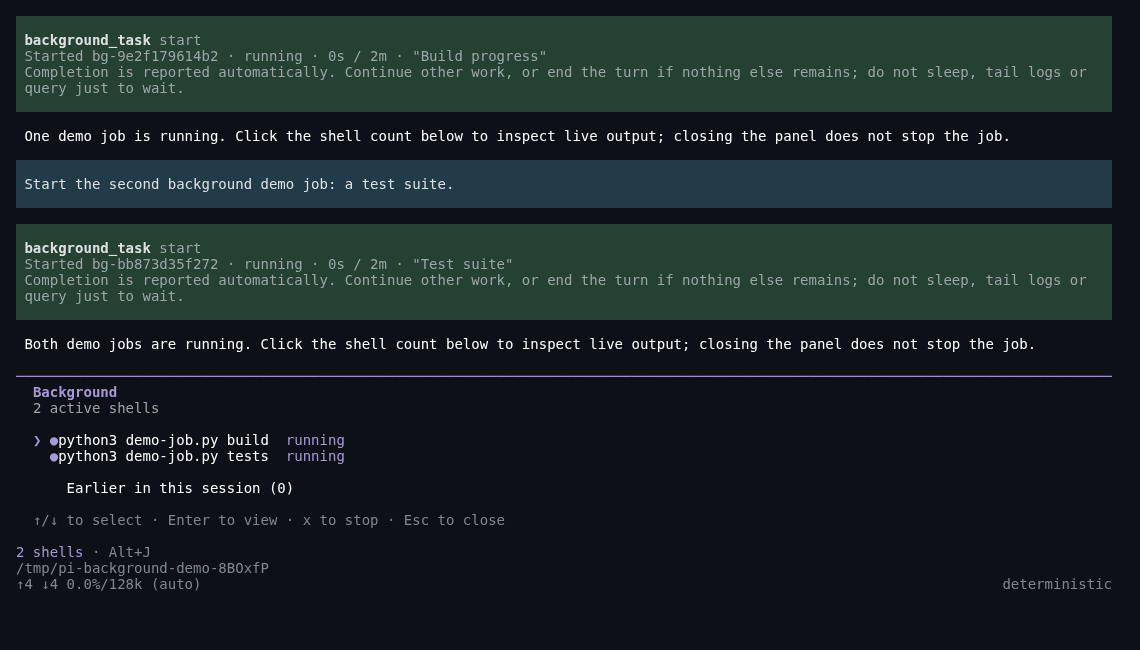
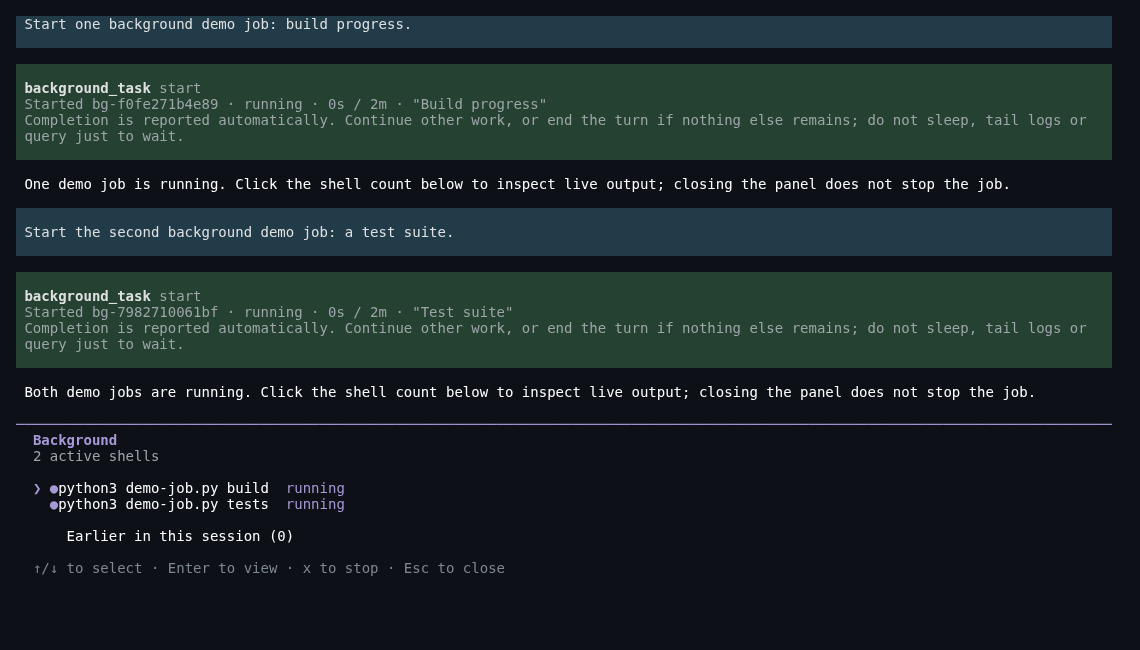
fix(background-tasks): move shell controls into the bottom footer

diff --git a/packages/background-tasks/extensions/background-tasks.ts b/packages/background-tasks/extensions/background-tasks.ts
@@ -5,7 +5,7 @@ import { stripVTControlCharacters } from "node:util";
 import { Type } from "typebox";
 import { BackgroundTasks, errorText, summary, systemClock, type Clock, type TaskSnapshot } from "../src/background-tasks.ts";
 import { BackgroundPanel } from "../src/panel.ts";
-import { BackgroundWidget, FINISHED_VISIBLE_MS, WIDGET_KEY, duration, visibleTasks } from "../src/widget.ts";
+import { BackgroundFooter, findNativeFooter, FINISHED_VISIBLE_MS, WIDGET_KEY, duration, visibleTasks } from "../src/widget.ts";
 
 const actions = ["start", "list", "output", "cancel"] as const;
 const startNotice = "Completion is reported automatically. Continue other work, or end the turn if nothing else remains; do not sleep, tail logs or query just to wait.";
@@ -72,7 +72,7 @@ export default function (pi: ExtensionAPI, dependencies: { operations?: BashOper
 	let completedNormally = true;
 	let interrupted = false;
 	const pending = new Map<string, TaskSnapshot>();
-	let mounted: { widget: BackgroundWidget; tui: { requestRender(): void } } | undefined;
+	let mounted: { footer: BackgroundFooter; tui: { requestRender(): void } } | undefined;
 	let panel: { close(): void } | undefined;
 
 	const clearNotificationTimer = () => {
@@ -158,6 +158,7 @@ export default function (pi: ExtensionAPI, dependencies: { operations?: BashOper
 		if (!current?.hasUI || current.mode !== "tui" || !tasks || panel) return;
 		const interaction = { close: () => {} };
 		panel = interaction;
+		mounted?.tui.requestRender();
 		try {
 			await current.ui.custom<void>((tui, theme, keybindings, done) => {
 				const component = new BackgroundPanel(tasks, clock, theme, keybindings, () => tui.requestRender(), () => done());
@@ -168,6 +169,7 @@ export default function (pi: ExtensionAPI, dependencies: { operations?: BashOper
 			if (context === current) current.ui.notify(`Cannot show shells: ${errorText(error)}`, "error");
 		} finally {
 			if (panel === interaction) panel = undefined;
+			mounted?.tui.requestRender();
 		}
 	};
 	pi.registerShortcut("alt+j", { description: "Show background shells", handler: openPanel });
@@ -183,24 +185,11 @@ export default function (pi: ExtensionAPI, dependencies: { operations?: BashOper
 			return;
 		}
 		const visible = visibleTasks(list.tasks, clock.now());
+		mounted?.footer.invalidate();
+		mounted?.tui.requestRender();
 		if (visible.length === 0) {
 			clearTimer();
-			if (mounted) {
-				context.ui.setWidget(WIDGET_KEY, undefined);
-				mounted.tui.requestRender();
-				mounted = undefined;
-			}
 			return;
-		}
-		if (mounted) {
-			mounted.widget.invalidate();
-			mounted.tui.requestRender();
-		} else {
-			context.ui.setWidget(WIDGET_KEY, (tui, theme) => {
-				const widget = new BackgroundWidget(() => manager?.list().tasks ?? [], clock, theme, () => { void openPanel(); });
-				mounted = { widget, tui };
-				return widget;
-			}, { placement: "belowEditor" });
 		}
 		if (timer === undefined) {
 			const delay = Math.min(1000, ...visible.filter((task) => task.ended_at !== undefined).map((task) => task.ended_at! + FINISHED_VISIBLE_MS - clock.now()));
@@ -223,7 +212,7 @@ export default function (pi: ExtensionAPI, dependencies: { operations?: BashOper
 		try {
 			if (previousContext?.hasUI) {
 				previousContext.ui.setStatus(WIDGET_KEY, undefined);
-				if (previousContext.mode === "tui") previousContext.ui.setWidget(WIDGET_KEY, undefined);
+				if (previousContext.mode === "tui" && mounted) previousContext.ui.setFooter(undefined);
 			}
 			mounted = undefined;
 		} finally {
@@ -243,6 +232,25 @@ export default function (pi: ExtensionAPI, dependencies: { operations?: BashOper
 				scheduleNotification();
 			},
 		});
+		if (ctx.hasUI && ctx.mode === "tui") {
+			// setFooter clears its container before invoking the factory. Capture the
+			// native component first, using a temporary, zero-line widget factory.
+			try {
+				ctx.ui.setWidget(WIDGET_KEY, (tui) => {
+					const native = findNativeFooter(tui.children);
+					if (!native) throw new Error("Background Tasks requires Pi's built-in footer; another extension has replaced it.");
+					ctx.ui.setFooter((footerTui, theme, data) => {
+						const footer = new BackgroundFooter(native, () => manager?.list().tasks ?? [], clock, theme,
+							() => data.getExtensionStatuses().size > 0, () => panel !== undefined, () => { void openPanel(); });
+						mounted = { footer, tui: footerTui };
+						return footer;
+					});
+					return { render: () => [], invalidate() {} };
+				});
+			} finally {
+				ctx.ui.setWidget(WIDGET_KEY, undefined);
+			}
+		}
 	});
 	pi.on("session_shutdown", dispose);
 

diff --git a/packages/background-tasks/src/widget.ts b/packages/background-tasks/src/widget.ts
@@ -1,5 +1,5 @@
-import type { Theme } from "@earendil-works/pi-coding-agent";
-import { truncateToWidth, visibleWidth, type TuiMouseEvent, type TuiMouseEventResult } from "@earendil-works/pi-tui";
+import { FooterComponent, type Theme } from "@earendil-works/pi-coding-agent";
+import { truncateToWidth, visibleWidth, type Component, type TuiMouseEvent, type TuiMouseEventResult } from "@earendil-works/pi-tui";
 import type { Clock, TaskSnapshot } from "./background-tasks.ts";
 
 export const WIDGET_KEY = "background-tasks";
@@ -16,35 +16,61 @@ export function duration(seconds: number): string {
 	return `${value}s`;
 }
 
-/** Compact, clickable shell count below the editor. The native footer stays intact. */
-export class BackgroundWidget {
-	private hitWidth = 0;
+/** Locate the exported native component through the public TUI container tree. */
+export function findNativeFooter(children: Component[]): FooterComponent | undefined {
+	for (const child of children) {
+		if (child instanceof FooterComponent) return child;
+		if ("children" in child && Array.isArray(child.children)) {
+			const footer = findNativeFooter(child.children);
+			if (footer) return footer;
+		}
+	}
+}
+
+/** Keep native usage/model rendering; add a clickable count to its final status row. */
+export class BackgroundFooter {
+	private hit?: { x: number; y: number; width: number };
+	private readonly native: Component;
 	private readonly getTasks: () => TaskSnapshot[];
 	private readonly clock: Clock;
 	private readonly theme: Theme;
+	private readonly hasStatuses: () => boolean;
+	private readonly panelOpen: () => boolean;
 	private readonly onSelect: () => void;
-	constructor(getTasks: () => TaskSnapshot[], clock: Clock, theme: Theme, onSelect: () => void) {
+	constructor(native: Component, getTasks: () => TaskSnapshot[], clock: Clock, theme: Theme, hasStatuses: () => boolean, panelOpen: () => boolean, onSelect: () => void) {
+		this.native = native;
 		this.getTasks = getTasks;
 		this.clock = clock;
 		this.theme = theme;
+		this.hasStatuses = hasStatuses;
+		this.panelOpen = panelOpen;
 		this.onSelect = onSelect;
 	}
 
 	handleMouse(event: TuiMouseEvent): TuiMouseEventResult | undefined {
-		if (event.type !== "click" || event.button !== "left" || event.y !== 0 || event.x < 0 || event.x >= this.hitWidth) return;
+		const hit = this.hit;
+		if (this.panelOpen() || !hit || event.type !== "click" || event.button !== "left" || event.y !== hit.y || event.x < hit.x || event.x >= hit.x + hit.width) return;
 		this.onSelect();
 		return { handled: true, render: false };
 	}
 
 	render(width: number): string[] {
+		this.hit = undefined;
+		if (this.panelOpen()) return [];
+		const lines = this.native.render(width);
 		const tasks = visibleTasks(this.getTasks(), this.clock.now());
+		if (!tasks.length) return lines;
 		const active = tasks.filter((task) => task.status === "running").length;
 		const ended = tasks.length - active;
 		const label = `${active} ${active === 1 ? "shell" : "shells"}${ended ? ` · ${ended} done` : ""}`;
-		const text = truncateToWidth(this.theme.fg("accent", label), width);
-		this.hitWidth = tasks.length ? visibleWidth(text) : 0;
-		return [truncateToWidth(`${text}${this.theme.fg("dim", " · Alt+J")}`, width)];
+		const hint = width >= visibleWidth(label) + 8 ? this.theme.fg("dim", " · Alt+J") : "";
+		const text = truncateToWidth(this.theme.fg("accent", label) + hint, width, "");
+		const status = this.hasStatuses() ? lines.pop()! : "";
+		const available = width - visibleWidth(text) - 3;
+		const prefix = status && available > 0 ? truncateToWidth(status, available, "…") + " · " : "";
+		this.hit = { x: visibleWidth(prefix), y: lines.length, width: Math.min(visibleWidth(label), visibleWidth(text)) };
+		return [...lines, prefix + text];
 	}
 
-	invalidate(): void { this.hitWidth = 0; }
+	invalidate(): void { this.hit = undefined; this.native.invalidate(); }
 }

diff --git a/packages/background-tasks/TESTING.md b/packages/background-tasks/TESTING.md
@@ -13,7 +13,7 @@ Tests use Node's built-in test runner. They resolve host peers from the installe
 - `tasks.mjs`: fake execution and clock at the task-manager interface; immediate return, two slots, validation, timeout/cancel races, final failure, disk budgets, write errors, bounded history and shutdown.
 - `output.mjs`: compares the shared 100-line/8-KiB preview with the real host Bash tool’s output, retaining unchanged small-output display parity and deliberately tighter truncation for large output. Covers line/byte limits, long lines, empty output, missing final newline, UTF-8 split across chunks, invalid UTF-8 and logs larger than 1 MiB. Checks both return paths carry the same tail, omission metadata reports total size, and full captured bytes remain on disk. The former Bash-sized display/1-MiB structured contract is retired; each retained fixture now verifies the bounded replacement.
 - `processes.mjs`: the native backend, a multi-line Python log check, non-blocking concurrency, PID-observed process-tree cleanup, silent busy-loop timeout and the default 32 MiB disk limit.
-- `extension.mjs`: real extension registration with fake execution/clock; schema errors, local panel inspection parity, parent-signal independence, merged busy/idle notifications, terminal-output consumption and failed-read retention, abort/error boundaries, manual-compaction-style busy intervals without agent boundaries, other extensions' draft preservation, status-only completion text with log paths and progressive-inspection guidance, no automatic stdout/stderr injection or log-file reads, a 16-KiB status/path batch cap, lossless splitting of large metadata batches, explicit timeout/empty-result status, independent missing-log and healthy-sibling manual inspections, synchronous delivery-failure retention, below-editor placement, five-second retention, narrow/CJK rendering, coexistence and non-TUI modes. Checks fixed `model-only` exposure and separate concise declaration and task-specific start guidance, no start-text log path or redundant structured guidance field, and explicit running-task `list`/`output` availability; verifies 24-hour retention after an interrupt, output consumption while stopped, custom-wake isolation and restoration of automatic delivery by a new user-message run.
+- `extension.mjs`: real extension registration with fake execution/clock; schema errors, local panel inspection parity, parent-signal independence, merged busy/idle notifications, terminal-output consumption and failed-read retention, abort/error boundaries, manual-compaction-style busy intervals without agent boundaries, other extensions' draft preservation, status-only completion text with log paths and progressive-inspection guidance, no automatic stdout/stderr injection or log-file reads, a 16-KiB status/path batch cap, lossless splitting of large metadata batches, explicit timeout/empty-result status, independent missing-log and healthy-sibling manual inspections, synchronous delivery-failure retention, bottom-footer placement beside editor status, complete footer hiding/restoration around the panel, five-second retention, narrow/CJK rendering, coexistence and non-TUI modes. Checks explicit failure for an incompatible replacement footer and cleanup of the temporary zero-line capture widget. Checks fixed `model-only` exposure and separate concise declaration and task-specific start guidance, no start-text log path or redundant structured guidance field, and explicit running-task `list`/`output` availability; verifies 24-hour retention after an interrupt, output consumption while stopped, custom-wake isolation and restoration of automatic delivery by a new user-message run.
 - `panel.mjs`: singular/plural counter, mouse hit region, screenshot-style field alignment, original multiline command, one-second refresh, empty/output-error states, bounded sanitized output, long commands, narrow/CJK widths, arrows/Enter/click selection, selected-ID stability across completion, `x` cancellation, closing without stopping, history paging and timer disposal. The old `viewer.mjs` was removed because all of its Herdr tab/pane/follow-script contracts are retired; local execution, process-tree cleanup and notification assertions remain in their existing suites. `extension.mjs` additionally checks no slash commands, one panel at a time, inspection not consuming reminders, and shutdown closing the panel.
 - `media.mjs`: actual demo Python jobs stream in-place/line output and exit with 0/3 only after explicit release files; the offline provider issues exactly two direct starts, then returns without polling. This tests the fixtures used by the real recorder, not an invented screen.
 - `notifications.mjs`: isolated real Pi with model-issued background calls, default one-at-a-time queues and an offline provider. Sequential blocking fixtures hold one native tool batch open across two waves of actual failing shell jobs. The blocking fixture runs directly or through native Codemode, but background calls always come from the model. The next model request gets one merged notification for four completions, excluding reminders for zero, one or two first-wave terminal outputs read directly by the model before the boundary; no output bodies are attached to any completion notice; no extra requests follow the final report. Complete pending-batch consumption remains covered by the deterministic extension tests. Also verifies that the model receives distinct declaration/start guidance without a Codemode suffix, and that the next request receives status/log locations without command output, and that native Codemode cannot discover or call `background_task`. The blocking tool is a fixture, not a real Herdr child. `BG_TEST_EXTENSION=/absolute/path/to/background-tasks.ts` can run the queue regressions against an older implementation.
@@ -55,12 +55,13 @@ It relays the real PTY output, captures only the test window, then closes it. In
 
 ```bash
 node scripts/capture-background-tasks-media.mjs .cache/background-ui
+BG_MEDIA_EDITOR=none node scripts/capture-background-tasks-media.mjs .cache/background-ui-no-editor
 node scripts/capture-package-media.mjs background-tasks
 ```
 
 Requires Python 3, Chrome, the web-browser skill launcher, Pillow and an installed `@xterm/xterm` package. Set `XTERM_DIR` to its package directory if it is not under `~/.pi/agent/npm/node_modules/@xterm/xterm`. No Herdr or graphical desktop is required.
 
-The recorder starts a real Pi PTY with the production extension and offline provider. Chrome renders the actual ANSI stream through xterm.js. CDP sends real mouse press/release events to the shell counter and task rows, and keyboard events for selection, return, close, stop and Alt+J. It verifies single-shell details, two-shell list, aligned fields, live output, completion, cancellation, retained history and session-log cleanup. The Python bridge only transports PTY bytes; it does not draw replacement UI. Its local HTTP/WebSocket server uses a random path token and same-origin upgrade checks and is closed after the run.
+The recorder starts a real Pi PTY with the production extension and offline provider. By default it also loads the production Codex Edit extension; that offline model correctly selects `editor: edit`. Deterministic tests additionally cover `editor: apply_patch`. `BG_MEDIA_EDITOR=none` verifies the same flow without an editor extension. Chrome renders the actual ANSI stream through xterm.js in a recorder-owned temporary browser profile, without touching an existing skill browser. CDP sends real mouse press/release events to the shell counter and task rows, and keyboard events for selection, return, close, stop and Alt+J. It asserts that the count is on the last nonempty row beside editor status when present, with no duplicate above the footer. Both list and details hide path, usage, model and status rows; closing restores them. It also verifies aligned fields, live output, completion, cancellation, retained history and session-log cleanup. The Python bridge only transports PTY bytes; it does not draw replacement UI. Its local HTTP/WebSocket server uses a random path token and same-origin upgrade checks and is closed after the run.
 
 The unified media entry first runs `tests/tui-smoke.py`, then the browser/TUI recorder. `result.json`, tool events and raw screen text/screenshots are saved under `.cache/package-media/background-terminal`. The renderer builds `docs/screenshot.png`, `docs/shell-list.png` and `docs/demo.gif` from real captured states. The old Herdr pane screenshot and WebM are retired.
 

diff --git a/docs/verification.md b/docs/verification.md
@@ -1,5 +1,17 @@
 # Package split verification
 
+## Background Tasks bottom footer and clean panels (2026-11-16, unreleased)
+
+- Corrected the UI contract: the clickable shell count occupies the last footer status row, beside editor status when present and alone otherwise. Both the list and details hide the entire footer; dismissing them restores current path, usage, model and statuses. Native execution, tool declarations, limits and notification delivery are unchanged.
+- Prior commit `8159074` explicitly implemented, documented and tested `belowEditor` placement. Its tests and media did not assert bottom-status-row placement or footer suppression during inspection. That explains the requirement gap, not a confirmed runtime cause for the original separate session's missing count. That session has not been inspected or reloaded.
+- All 91 Background Tasks tests passed. New assertions cover native-footer reuse, placement beside `editor: apply_patch`, no remaining capture widget, no-editor count, count priority over long/CJK statuses at narrow widths, click coordinates, footer hiding/restoration, expiration and explicit incompatibility errors. Existing execution, output, process, interruption, compaction and notification suites remain enabled and passed.
+- Full root `npm test` passed. Standalone and complete-toolkit load tests passed; the toolkit registered exactly one background-task tool. Full root `npm run load-test` passed with a temporary offline agent directory, closed stdin and inherited Herdr identity removed. Standalone and root `npm pack --dry-run` passed. Manifests were reviewed; no entry, peer requirement or version change is needed.
+- Real native Pi PTY smoke passed in fullscreen and regular modes, including Scheduler coexistence, two running tasks, third rejection, keyboard list/details, cancellation, completion, duplicate protection and reload/new/quit cleanup. Evidence: `.cache/package-media/background-live/result.json` and `.cache/verification/footer-regular/result.json`.
+- Real Chrome/CDP flows passed with production Codex Edit and without an editor extension. Each made real clicks on one-/two-shell counters, selected task rows, exercised arrows/Enter/Escape/stop/history, verified last-row placement, and asserted absence of path, usage, model and statuses in open panels. The offline fixture model correctly selects native `editor: edit`; deterministic tests cover `editor: apply_patch`. Evidence: `.cache/package-media/background-terminal/` and `.cache/verification/footer-no-editor/background-terminal/`, including screen text, PNGs, tool events and seven-check result files.
+- Regenerated package screenshots and GIF through `node scripts/capture-package-media.mjs background-tasks`. Checked `docs/package-media-gallery.html` in Chrome: all 16 images loaded and the video reported no error; inspected the Background Tasks screenshots and animation. Evidence: `.cache/verification/footer-gallery/`.
+- Browser capture initially exposed a shared-profile collision; the recorder now gives its skill-launched Chrome a temporary HOME/profile and closes only its own browser. A first narrow-width assertion also caught hint truncation hiding part of the count; the hint now disappears before the count is clipped. Both failures were fixed and their checks rerun successfully.
+- Compatibility ceiling: the wrapper reuses Pi's exported `FooterComponent` through public TUI containers because the host has no footer-composition getter. Other whole-footer replacements cannot be composed; an already replaced footer fails visibly. See the package README. A composable host status/footer API is the upgrade trigger. No installed packages were updated, no active user sessions were reloaded, and nothing was published.
+
 ## Verified shell-panel publication (2026-11-13)
 
 - Source commit `8159074` includes the local shell panel; earlier commit `220c2a4` removes the built-in analyst Persona. User approved publishing both in the root bundle. Release commit `48c24f1` carries `background-tasks-v0.4.0` and `v0.15.0`; both tags and `main` were pushed atomically.

diff --git a/packages/background-tasks/README.md b/packages/background-tasks/README.md
@@ -70,15 +70,17 @@ List shows running tasks and the latest 20 finished tasks, with total and omitte
 
 ## User controls and status
 
-A compact **`1 shell` / `N shells`** counter sits below the editor without replacing Pi's footer. Click the count in fullscreen mode, or press **Alt+J** in either terminal mode. One active task opens **Shell details** directly; multiple tasks open **Background**. With no active tasks, Alt+J still opens retained history.
+A compact **`1 shell` / `N shells`** counter sits on the **bottom footer status row**, beside `editor: apply_patch` or other extension statuses. Without another status, it occupies that row alone. The existing native path, usage and model rows stay unchanged. Click the count in fullscreen mode, or press **Alt+J** in either terminal mode. One active task opens **Shell details** directly; multiple tasks open **Background**. With no active tasks, Alt+J still opens retained history.
 
 - **List:** ↑/↓ selects a shell, Enter opens its details, and clicking a task row opens that task. Running tasks appear first, followed by **Earlier in this session**. At most eight task rows are visible; selection scrolls the retained history (latest 20 finished tasks).
 - **Details:** `Status:`, `Runtime:` and `Command:` share a fixed value column. Long commands wrap for up to three lines with an ellipsis. **Output:** shows the last ten captured lines, clipped to the current width, refreshed every second. Empty output says `No output available`; truncated tails show the log path for further inspection. Finished tasks also show their exit code, reason and incomplete-capture warning when applicable.
-- **Controls:** ← returns to the list. Esc closes either view; Enter or Space also closes details. `x` stops only the selected running shell. Closing the panel leaves the task running. Inspecting output in the panel does not add model messages or consume a pending completion reminder.
+- **Controls:** ← returns to the list. Esc closes either view; Enter or Space also closes details. `x` stops only the selected running shell. While either panel is open, the entire footer is hidden: path, usage, model, extension statuses and shell count. Closing restores the current footer and leaves the task running. Inspecting output in the panel does not add model messages or consume a pending completion reminder.
 - **Counter:** recently finished tasks add `N done` for five seconds. Hiding the counter does not delete history. RPC receives an active count; print/JSON mode has no UI timer.
 - **No `/bg` commands or Herdr integration:** the extension creates no tabs, panes or log-following processes, including when Pi itself runs inside Herdr. Task execution always uses the same local backend.
 
 The preview is intentionally bounded, not a full log viewer. Use the retained log path for earlier output or long lines. Commands have no TTY, so TTY-only colour and progress rendering may be absent. Other extensions' widgets remain intact.
+
+The extension wraps Pi's exported native `FooterComponent`, found through the public TUI container tree; it does not copy usage accounting or patch host methods. A temporary zero-line widget captures that component before `setFooter()` clears its container, then is removed. Pi has no public footer-composition getter. Extensions that also replace the entire footer are therefore not composable: a replacement present at startup produces an explicit extension error, and one installed later can replace this footer. Use the built-in footer with `setStatus()` extensions such as Codex Edit. A host-provided composable/clickable status API would remove this constraint.
 
 ## Completion delivery
 

diff --git a/README.md b/README.md
@@ -42,7 +42,7 @@ Each child README owns its feature description, motivation or upstream alignment
 
 In Pi 1.4+ fullscreen mode, click a task row in the Herdr Subagents Fleet widget to focus that exact subagent pane. Keyboard navigation and `/herdr-subagents focus <task-number>` remain available.
 
-Background Tasks combines unread completions after any current tool batch, before the next model request, including when the main agent waits for a synchronous subagent. Idle completions wake the main agent automatically, except after a user interrupt: results remain available until the next user-message run. Reading a finished task's `output` through the tool consumes its pending reminder. The tool is fixed to `model-only`, not callable through Codemode. Tool/action declarations describe session lifetime and permit on-demand running-task `list`/`output` inspection; start returns a separate short completion-notification reminder. Completion sends only status and log paths with guidance to search or read bounded ranges progressively; it does not read or inject log bodies. Large metadata batches are retained for later boundaries under a defensive 16-KiB text cap. Explicit model and structured output bodies share the same 100-line/8-KiB tail. A compact `1 shell` / `N shells` counter opens a local list/details panel with aligned Status, Runtime, Command and bounded live Output. Alt+J opens it without mouse support; there are no `/bg` commands or Herdr tabs/panes. See [completion delivery](packages/background-tasks/README.md#completion-delivery).
+Background Tasks combines unread completions after any current tool batch, before the next model request, including when the main agent waits for a synchronous subagent. Idle completions wake the main agent automatically, except after a user interrupt: results remain available until the next user-message run. Reading a finished task's `output` through the tool consumes its pending reminder. The tool is fixed to `model-only`, not callable through Codemode. Tool/action declarations describe session lifetime and permit on-demand running-task `list`/`output` inspection; start returns a separate short completion-notification reminder. Completion sends only status and log paths with guidance to search or read bounded ranges progressively; it does not read or inject log bodies. Large metadata batches are retained for later boundaries under a defensive 16-KiB text cap. Explicit model and structured output bodies share the same 100-line/8-KiB tail. A compact `1 shell` / `N shells` counter on the bottom footer row, beside editor status when present, opens a local list/details panel with aligned Status, Runtime, Command and bounded live Output. The panel hides the entire footer until closed. Alt+J opens it without mouse support; there are no `/bg` commands or Herdr tabs/panes. See [controls and footer compatibility](packages/background-tasks/README.md#user-controls-and-status) and [completion delivery](packages/background-tasks/README.md#completion-delivery).
 
 Codex Edit personal routing rules belong in `~/.pi/agent/codex-edit.json`, not inside `node_modules`. User fields override bundled defaults; `models` replaces the complete default list. The file survives package updates and is shared by parent sessions and explicitly configured subagents using the same agent directory. Use `/reload` after editing it, and start new subagents. See [Codex Edit configuration](packages/codex-edit/README.md#configuration).
 

diff --git a/AGENTS.md b/AGENTS.md
@@ -51,7 +51,7 @@ pi-toolkit/
 - Herdr Subagents 必须运行全部确定性测试、加载 `packages/herdr-subagents/extensions/herdr-subagents.ts`，并在真实 Herdr 中验证只读并发批次和 tab 清理；媒体必须通过 `HERDR_MEDIA_WINDOW_ID=<window-id> node scripts/capture-package-media.mjs` 录制父 Pi 对话、逐一聚焦三个真实 Agent pane 和最终父会话结果，同时保留截图和完整 WebM 视频。
 - OpenAI Account Pool 必须运行全部确定性测试，并通过 `npm --prefix packages/openai-account-pool run load-test` 加载 `packages/openai-account-pool/extensions/openai-account-pool.ts`（该子包不在主包默认 loadout 和根 load-test 中），并验证：只有结构化 `usage_limit_reached` 或明确授权失效才切账号、向外输出后不重放、auth.json 仍是凭据权威来源且主条目只存非秘密引用。测试夹具凭据只限隔离临时目录，仓库、媒体和 tarball 不得包含真实令牌或授权 callback URL。
 - Scheduler 必须运行确定性 fake-clock 与 extension 集成测试、加载 `packages/scheduler/extensions/scheduler.ts`，并验证定时/手动触发统一使用 followUp、同一 schedule 最多积压一次、取消与 session shutdown 清理 timer；媒体展示真实核心状态机输出。
-- Background Tasks 验收见 `packages/background-tasks/TESTING.md`：覆盖原生 Bash 双层输出对照、超时/进程树清理与真实 Pi TUI；主包默认内嵌并启用，根 load-test 验证完整组合包只注册一次；不向全局 promptGuidelines 添加工具规则。展示使用 Pi 内嵌 shell 计数、列表与详情，不注册 `/bg` 或调用 Herdr；修改 UI 时验证真实点击、键盘选择、停止与 session 清理。
+- Background Tasks 验收见 `packages/background-tasks/TESTING.md`：覆盖原生 Bash 双层输出对照、超时/进程树清理与真实 Pi TUI；主包默认内嵌并启用，根 load-test 验证完整组合包只注册一次；不向全局 promptGuidelines 添加工具规则。展示使用 Pi 内嵌 shell 计数、列表与详情，不注册 `/bg` 或调用 Herdr；修改 UI 时验证最底部状态行的计数点击（有/无 editor 状态）、面板打开时整块底栏隐藏及关闭恢复、键盘选择、停止与 session 清理。
 - Cache Export 只表述服务商/Pi 报告的 usage；主请求与辅助调用分列，时间用 message timestamp/duration，不用落盘间隔冒充空闲。历史缓存参数只存非秘密白名单；缺证据写未知，不能用 Pi 推断校准服务端状态。
 - Herdr 漏报补救只在子侧：before-settle 最多一次持久化提醒，重复漏报/最终错误写未确认诊断；用户 Esc 跳过该边界，agent_settled 启动 `abortGraceSeconds`（默认 30）宽限计时；期间有新一轮或 session 关闭则取消计时，超时才写 `child_aborted` 未确认诊断，不唤醒模型、不新增父侧补报监控。
 - Cache Export 的发布验收要求确定性测试通过，并在有 Chrome 的环境中跑浏览器 E2E；skip 不算发布验收通过。

diff --git a/packages/background-tasks/CHANGELOG.md b/packages/background-tasks/CHANGELOG.md
@@ -1,5 +1,11 @@
 # Changelog
 
+## Unreleased
+
+- Move the clickable shell count to the bottom footer status row, beside editor status when present; preserve Pi's native path, usage and model rendering.
+- Hide the entire footer while the shell list or details panel is open, and restore it on close.
+- Verify bottom-row placement and clean panels with real Chrome clicks, both with and without Codex Edit. Keep capture browsers isolated from existing browser sessions.
+
 ## 2026-11-13 - v0.4.0
 
 - Replace Herdr task views and /bg commands with a local shell counter and details panel

diff --git a/CHANGELOG.md b/CHANGELOG.md
@@ -1,3 +1,7 @@
+## Unreleased
+
+- Background Tasks: put the clickable shell count on the bottom status row beside editor status; hide the entire footer while inspecting shells and restore it on close.
+
 ## 2026-11-13 - v0.15.0
 
 - background-tasks v0.4.0: Replace Herdr task views and /bg commands with a local shell counter and details panel
